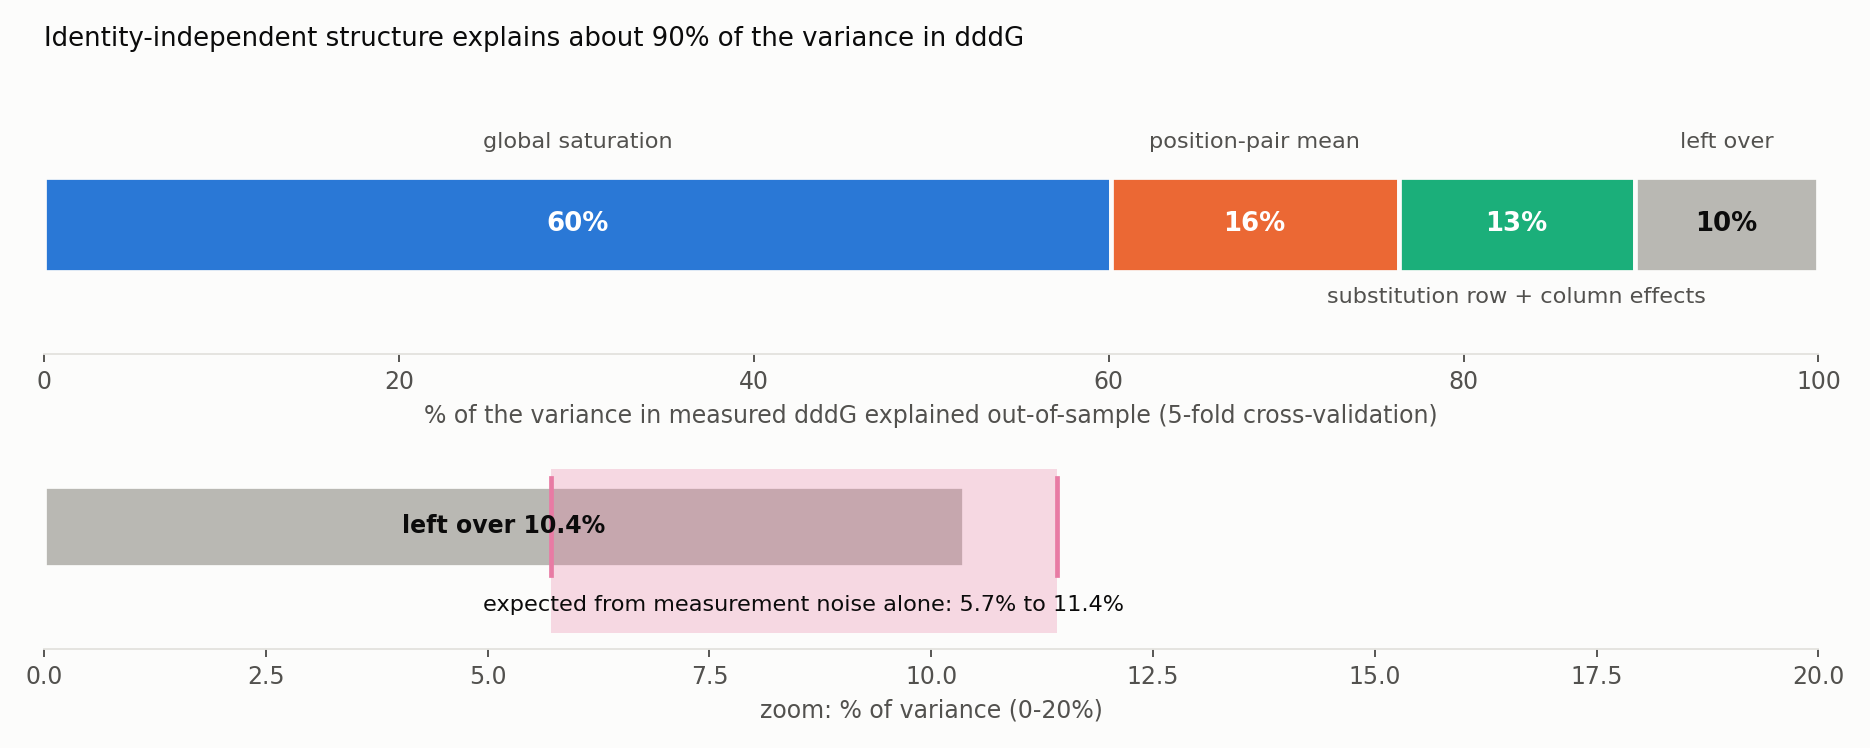
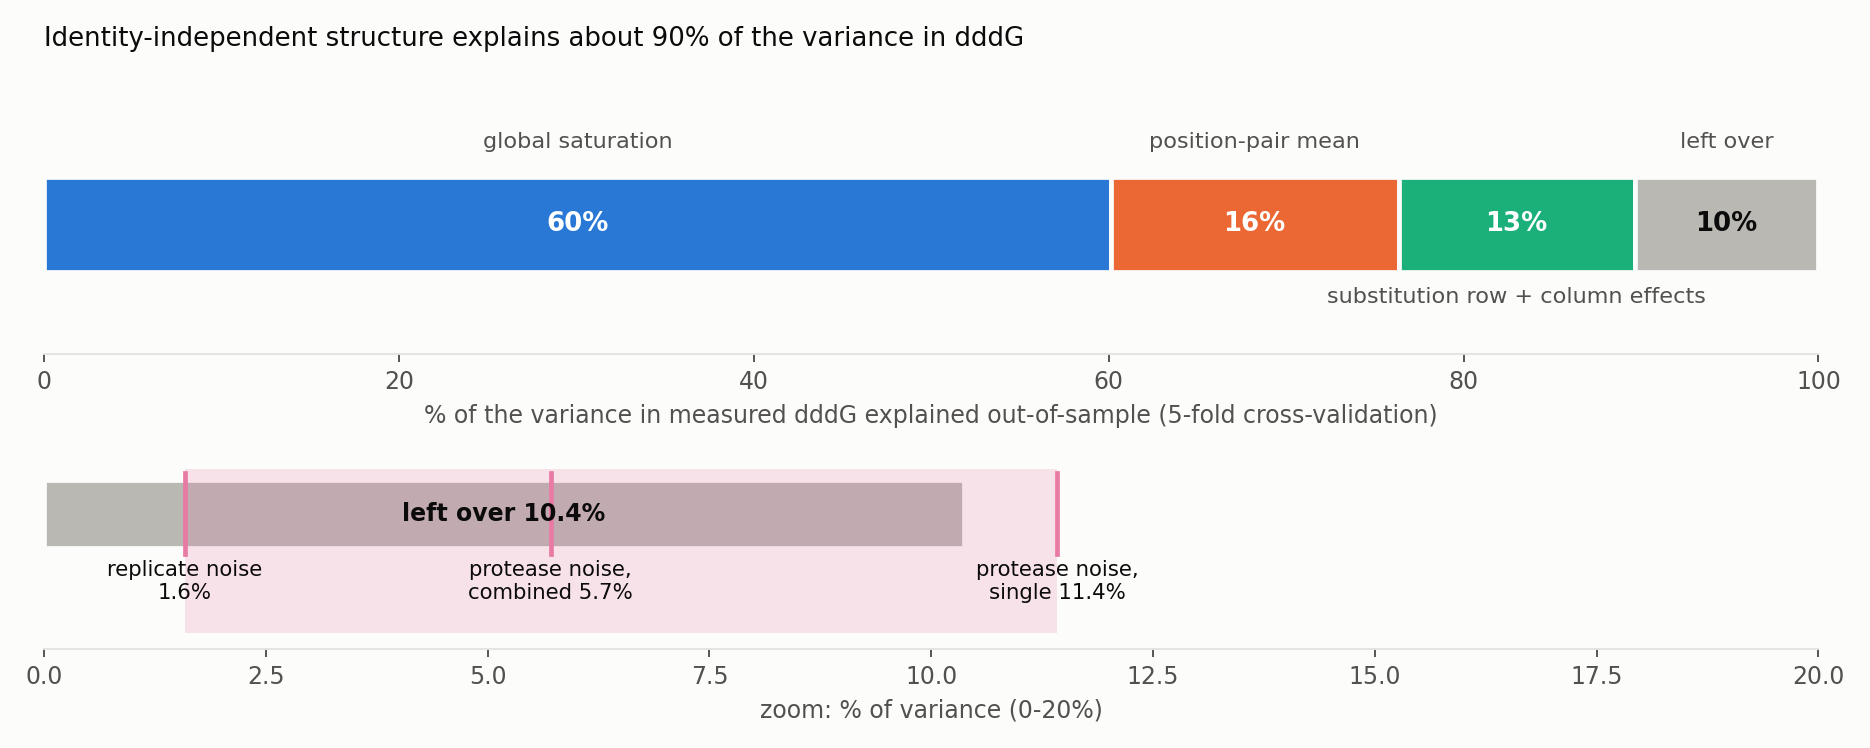
ANOVA report: correct noise estimate using replicate WT copies (SD 0.115); interaction share is 0-9%, not 0-5%
The earlier bracket used only trypsin-versus-chymotrypsin disagreement (0.22-0.31), which can overstate
the error of the combined dG. Synonymous wild-type copies give a direct replicate SD of 0.115 kcal/mol,
which leaves up to about 9% of the dddG variance for interaction. Figure 2 and the summary updated.

Changed region(s): [[0.0, 0.615, 0.6203, 0.861]]

diff --git a/analysis_notebooks/anova/make_figures.py b/analysis_notebooks/anova/make_figures.py
@@ -46,7 +46,7 @@ fig.tight_layout(); fig.savefig(f'{FIG}/fig1_global_curve.png', dpi=170); plt.cl
 
 # ---- Fig 2: variance partition ----
 cv = R['cv_increment']; g_, p_, rc_ = cv['M1 +global'], cv['M2 +pair mean'], cv['M3 +row/col']; rem = R['cv_resid_share']
-nlo, nhi = R['noise_in_residual_share_opt'], R['noise_in_residual_share_pess']
+nrep, nlo, nhi = R['noise_in_residual_share_rep'], R['noise_in_residual_share_opt'], R['noise_in_residual_share_pess']
 fig, ax = plt.subplots(2, 1, figsize=(11, 4.4), gridspec_kw={'height_ratios': [1.5, 1]})
 left = 0
 segs = [('global saturation', g_, BLUE), ('position-pair mean', p_, ORANGE), ('substitution row + column effects', rc_, AQUA),
@@ -63,11 +63,11 @@ ax[0].set_xlabel('% of the variance in measured dddG explained out-of-sample (5-
 ax[0].set_title('Identity-independent structure explains about 90% of the variance in dddG', loc='left', fontsize=11, color=INK)
 ax[1].barh(0, rem * 100, color=GRAY, edgecolor=SURF, linewidth=2, height=0.5)
 ax[1].text(rem * 100 / 2, 0, f'left over {rem*100:.1f}%', ha='center', va='center', color=INK, fontsize=10, fontweight='bold')
-ax[1].axvspan(nlo * 100, nhi * 100, ymin=0.08, ymax=0.92, color=MAGENTA, alpha=0.28, lw=0)
-ax[1].plot([nlo * 100] * 2, [-0.3, 0.3], color=MAGENTA, lw=2); ax[1].plot([nhi * 100] * 2, [-0.3, 0.3], color=MAGENTA, lw=2)
-ax[1].text((nlo + nhi) * 50, -0.42, f'expected from measurement noise alone: {nlo*100:.1f}% to {nhi*100:.1f}%', ha='center', va='top',
-           color=INK, fontsize=9.5)
-ax[1].set_xlim(0, 20); ax[1].set_ylim(-0.75, 0.45); ax[1].set_yticks([]); ax[1].spines['left'].set_visible(False)
+ax[1].axvspan(nrep * 100, nhi * 100, ymin=0.08, ymax=0.92, color=MAGENTA, alpha=0.2, lw=0)
+for v, lab, dy in ((nrep, 'replicate noise\n%.1f%%' % (nrep * 100), -0.34), (nlo, 'protease noise,\ncombined %.1f%%' % (nlo * 100), -0.34), (nhi, 'protease noise,\nsingle %.1f%%' % (nhi * 100), -0.34)):
+    ax[1].plot([v * 100] * 2, [-0.3, 0.3], color=MAGENTA, lw=2)
+    ax[1].text(v * 100, dy, lab, ha='center', va='top', color=INK, fontsize=9)
+ax[1].set_xlim(0, 20); ax[1].set_ylim(-1.0, 0.45); ax[1].set_yticks([]); ax[1].spines['left'].set_visible(False)
 ax[1].set_xlabel('zoom: % of variance (0-20%)')
 fig.tight_layout(); fig.savefig(f'{FIG}/fig2_variance_partition.png', dpi=170); plt.close(fig)
 

diff --git a/analysis_notebooks/anova/anova_variance_partition.py b/analysis_notebooks/anova/anova_variance_partition.py
@@ -48,6 +48,10 @@ def build_table():
     s = s[s.dG_ML.between(0, 4) & s.deltaG_t.between(-1, 5) & s.deltaG_c.between(-1, 5)]
     diff = s.deltaG_t - s.deltaG_c
     sigma_single_protease = float(diff.std() / np.sqrt(2))
+    # replicate noise: ΔG spread among synonymous copies of the wild-type sequence within each library
+    w = d[d.mut_type == 'wt'].dropna(subset=['dG_ML']).groupby('WT_name').dG_ML.agg(['count', 'std'])
+    w = w[w['count'] >= 3]
+    sigma_replicate = float(np.sqrt((w['std'] ** 2 * (w['count'] - 1)).sum() / (w['count'] - 1).sum()))
     g = d.groupby(['code', 'mut_type'], as_index=False).agg(dG=('dG_use', 'mean'), ddG=('ddG_use', 'mean'),
                                                           code_wt=('code_wt', 'first'))
     g['nm'] = g.mut_type.str.count(':') + 1
@@ -73,7 +77,7 @@ def build_table():
     T['x'] = T.dG_wt + T.S                      # additive-predicted dG of the double
     T['dddG'] = T.ddG_AB - T.S
     T['pair'] = T.code + '|' + T.p.astype(str) + '|' + T.q.astype(str)
-    return T, sigma_single_protease
+    return T, (sigma_single_protease, sigma_replicate)
 
 
 def fit_rowcol(df, col, n_iter=15):
@@ -121,14 +125,14 @@ def flip_rho(items, pred, target):
 
 
 def main():
-    T, sig1 = build_table()
+    T, (sig1, sig_rep) = build_table()
     T.to_pickle(f'{OUT}/T.pkl')
     res = {'n_doubles': int(len(T)), 'n_libs': int(T.code.nunique()), 'n_pairs': int(T.pair.nunique()),
            'cells_per_pair_median': float(T.groupby('pair').size().median()),
            'var_dddG': float(T.dddG.var()), 'mean_dddG': float(T.dddG.mean()),
-           'sigma_single_protease': sig1, 'sigma_ml_optimistic': sig1 / np.sqrt(2)}
+           'sigma_single_protease': sig1, 'sigma_ml_optimistic': sig1 / np.sqrt(2), 'sigma_replicate': sig_rep}
     V = res['var_dddG']
-    for tag, s in (('opt', sig1 / np.sqrt(2)), ('pess', sig1)):
+    for tag, s in (('rep', sig_rep), ('opt', sig1 / np.sqrt(2)), ('pess', sig1)):
         res[f'noise_total_share_{tag}'] = 3 * s * s / V          # sigma_Y^2 + sigma_A^2 + sigma_B^2
         res[f'noise_in_residual_share_{tag}'] = s * s / V        # only the double's own noise lands in the residual
 

diff --git a/docs/anova_epistasis_report.md b/docs/anova_epistasis_report.md
@@ -15,10 +15,12 @@ Reproduce with `analysis_notebooks/anova/` (scripts listed at the end). Raw numb
    does not depend on which two amino acids were swapped.** Out-of-sample: 60% by the assay's
    saturation alone, +16% by a per-position-pair offset, +13% by per-substitution row and
    column effects. (Figure 2.)
-2. **What is left (10.4%) is about what measurement noise alone would produce (5.7–11.4%).** So the
-   identity-specific interaction that a sequence model is meant to learn accounts for somewhere
-   between roughly 0% and 5% of the variance, depending on how noisy the measurements really
-   are. If the true noise is lower than I estimate, the share rises (Section 4.3).
+2. **What is left (10.4%) is small, and how much of it is real interaction depends on the noise level.**
+   Noise estimated from replicate wild-type measurements (SD 0.115 kcal/mol) would account for only 1.6% of it, leaving up to
+   about 9% of the variance for identity-specific interaction. Noise estimated from trypsin-versus-chymotrypsin disagreement
+   (SD 0.22–0.31) would account for 5.7–11.4%, leaving 0–5%. **The data constrain interaction to between about 0% and 9% of
+   the variance, not more tightly** (Sections 2 and 4.3). An earlier version of this report gave 0–5%; that used only
+   the second estimate.
 3. **ΔΔΔG correlation is not a test of interaction.** Predictors with no identity-specific term
    at all reach Spearman 0.70, 0.86 and 0.94 against measured ΔΔΔG (Figure 4). The validation
    metric `val_rho_epi` (about 0.36–0.42) is therefore not evidence of learned interaction.
@@ -31,7 +33,7 @@ Reproduce with `analysis_notebooks/anova/` (scripts listed at the end). Raw numb
    on *training* libraries by +0.049 (19 of 21 libraries improved) but on validation libraries by only
    +0.015 (6 of 16 improved, indistinguishable from zero).
 6. **Including the out-of-range variants** (Section 3.5) raises the saturation share to 66% and leaves the leftover at
-   8.6%, still roughly the size of the noise.
+   8.6%, which is within the plausible range of noise.
 7. **What would be a cleaner target:** the per-pair-matrix version of the flip metric, and a loss
    that works on the residual after the identity-independent terms are removed (Section 6).
 
@@ -119,11 +121,15 @@ the same amount. This is why single-mutant noise cannot masquerade as interactio
 * Hierarchy, each level cross-validated at the cell level (5 folds):
   **M1** isotonic curve of measured ΔG on x. **M2** M1 plus a per-pair mean of what M1 leaves.
   **M3** M2 plus per-pair row and column effects (fitted by alternating averages).
-* **Measurement noise.** The two protease-based ΔG estimates (trypsin, chymotrypsin) are
+* **Measurement noise: three estimates, which disagree.**
+  (a) *Replicate noise.* Each library contains several synonymous copies of the wild-type sequence (median 5). Their ΔG spread
+  directly measures replicate error: median SD **0.07**, pooled SD **0.115 kcal/mol** across 419 libraries. It misses error that is the same
+  for every copy of a sequence, such as an error in the model of the unfolded-state baseline.
+  (b) *Protease disagreement.* The two protease-based ΔG estimates (trypsin, chymotrypsin) are
   independent measurements of the same quantity. Their disagreement, in the well-measured range
   (0 < ΔG < 4), is SD(difference)/√2 = **0.31 kcal/mol per protease**. The project's ΔG is a
   combination of the two, which would reduce the error to about **0.22** if their errors were independent.
-  I use 0.22 (optimistic) and 0.31 (pessimistic) as a bracket. The reported 95% confidence intervals
+  I use 0.115 (replicates only), 0.22 and 0.31 as the bracket. (c) The reported 95% confidence intervals
   (median width 0.14, so SD about 0.04) are a floor, not an estimate: the paper's methods state they reflect only
   the uncertainty from finite sequencing counts and exclude uncertainty in the unfolded-state baseline K50,U,
   protease concentrations and the validity of the kinetic model. The protease disagreement includes those
@@ -154,8 +160,8 @@ prediction. Where the additive prediction falls below about −2 kcal/mol, the a
 ![Figure 2](anova/fig2_variance_partition.png)
 
 *Figure 2.* Top: share of the variance in measured dddG explained out-of-sample at each step.
-Bottom: zoom on the leftover, with the amount that measurement noise alone would contribute
-(pink band).
+Bottom: zoom on the leftover, with the amount that measurement noise alone would contribute under the three noise
+estimates of Section 2 (pink markers).
 
 | step | explains (cross-validated) | cumulative | in-sample (for contrast) |
 |---|---|---|---|
@@ -211,14 +217,14 @@ own figures. Doubles that contain a clipped single now enter too, so the sample 
 | + position-pair mean | +16.2% | +14.2% |
 | + row and column effects | +13.3% | +11.3% |
 | **left over** | 10.4% | **8.6%** |
-| noise expected in the leftover (σ 0.22 to 0.31) | 5.7% to 11.4% | 4.0% to 8.0% |
-| room for interaction | about 0% to 4.7% | about 0.6% to 4.6% |
+| noise expected in the leftover (σ 0.115 / 0.22 / 0.31) | 1.6% / 5.7% / 11.4% | 1.1% / 4.0% / 8.0% |
+| room for interaction | about 0% to 8.8% | about 0.6% to 7.5% |
 | ρ with dddG: saturation only / + pair mean / + row, col | 0.70 / 0.86 / 0.94 | 0.74 / 0.87 / 0.95 |
 | saturation-only ρ on validation libraries (per-library mean) | 0.57 | 0.60 |
 
 * The share explained by **saturation rises**, as expected: the doubles that were missing are the ones most affected by the floor.
 * The **bottom line is unchanged**: after the identity-independent terms, the leftover is about what noise alone would give,
-  leaving at most about 5% of the variance for identity-specific interaction.
+  leaving at most about 7–9% of the variance for identity-specific interaction, and little or none under the higher noise estimates.
 * Caution: a clipped value is a bound, not a measurement, so cells built from clipped values carry extra structured error.
   The absolute leftover variance is slightly higher here (0.10 versus 0.086 kcal²/mol²), which is consistent with that.
 
@@ -226,10 +232,10 @@ own figures. Doubles that contain a clipped single now enter too, so the sample 
 
 ### 4.1 It looks like noise
 
-Section 2 gives two estimates of how much of the dddG variance should be noise: 17% (σ = 0.22) to
-34% (σ = 0.31) in total. Most of it, the single-mutant part, ends up in the row and column effects
-and is already removed. Only the *double's own* measurement error stays in the leftover:
-**5.7%** to **11.4%** of the variance. The leftover is **10.4%**, inside that range.
+Section 2 gives three estimates of the measurement error. Total noise in dddG is three times the single-measurement variance
+(the double plus the two singles): 4.8% of the variance for σ = 0.115, 17% for σ = 0.22 and 34% for σ = 0.31. Most of it, the single-mutant part, ends up in the row
+and column effects and is already removed. Only the *double's own* measurement error stays in the leftover:
+**1.6%**, **5.7%** or **11.4%** of the variance. The leftover is **10.4%**, which is above the first and inside the range of the other two.
 
 ### 4.2 By how far down the additive prediction sits
 
@@ -247,19 +253,20 @@ In the middle of the range (where the assay is best behaved), the leftover varia
 (SD 0.26), the same scale as the noise estimates (SD 0.22–0.31). It is larger at both ends, where the assay is
 least reliable.
 
-### 4.3 How sure is "interaction ≤ 5%"? It depends on the noise level
+### 4.3 How large is the interaction share? It depends on the noise level
 
 The leftover minus the expected noise is the most that real interaction could account for:
 
-| assumed noise SD (kcal/mol) | noise in leftover | room for interaction |
-|---|---|---|
-| 0.31 (pessimistic) | 11.4% | about 0% |
-| 0.22 (optimistic) | 5.7% | about 4.7% |
-| 0.10 | 1.2% | about 9% |
+| assumed noise SD (kcal/mol) | source | noise in leftover | room for interaction |
+|---|---|---|---|
+| 0.31 | pessimistic: one protease's disagreement | 11.4% | about 0% |
+| 0.22 | optimistic: combined estimate, independent protease errors | 5.7% | about 4.7% |
+| **0.115** | **replicate wild-type copies (lower bound on noise)** | **1.6%** | **about 8.8%** |
 
-So the data constrain interaction to a small share of the variance, but the exact figure depends on
-a noise level I could estimate only roughly. If the true noise is below about 0.1, most of the
-leftover is real.
+So the data constrain interaction to a small share of the variance, between about 0% and 9%, and the width of that range is
+the uncertainty about the noise. The replicate estimate is the only *direct* measurement, but it is a lower bound because it
+cannot see errors shared by all copies of a sequence. The protease estimate may overstate the error of the combined ΔG if the
+two proteases differ for real reasons. I cannot choose between them with these data.
 
 ---
 
@@ -322,8 +329,9 @@ regression moves the validation flip score so little.
    censored loss.
 3. **Train the interaction head on the residual** after the identity-independent terms (the
    deviation-targeted loss), or project the MT head's output onto the interaction subspace.
-4. **Measure noise directly.** The conclusion in 4.3 depends on σ. A replicate-based estimate
-   (e.g. from libraries measured more than once) would tighten it considerably.
+4. **Pin down the noise that matters.** The replicate-based figure (0.115) and the protease-based figures (0.22–0.31) differ by a
+   factor of two to three, and that gap is the whole uncertainty in the interaction share. Replicates of the *same mutant* measured in
+   independent experiments would settle it; the synonymous wild-type copies only bound it from below.
 
 ---
 
@@ -335,7 +343,7 @@ regression moves the validation flip score so little.
 * **Row and column effects are not all "nuisance".** They include real biology (for example,
   coupling that grows with how damaging a substitution is) as well as single-mutant noise. Calling
   them identity-*independent* means they do not depend on the *partner residue*.
-* **Noise is the least certain input** (Section 4.3).
+* **Noise is the least certain input**: the replicate-based and protease-based estimates differ by a factor of two to three (Section 4.3).
 * **The low end of the data is truncated.** Doubles that are confidently below the assay floor are absent (Section 2),
   so the floor region is a survivor sample. The saturation curve and the global share (60%) there are conditioned on survivors and
   would change if those doubles were included (clipped at −1, as the paper does for its figures). The mid-range results,
